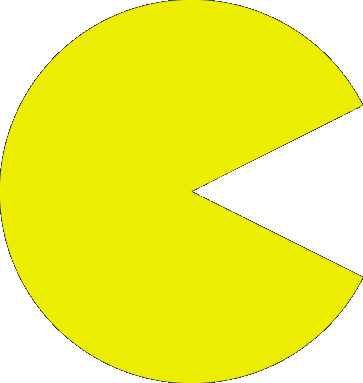
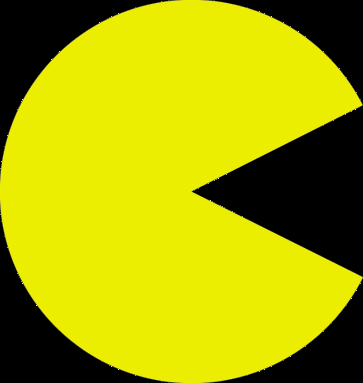
Give Pacman black background

Changed region(s): [[0.5152, 0.0, 1.0, 1.0], [0.0, 0.5744, 0.4545, 1.0], [0.0, 0.0, 0.4545, 0.4308]]

diff --git a/Pacman.c b/Pacman.c
@@ -8,40 +8,38 @@
  * 
  * Quote/Fortune of the Day!
  * -------------------------
- * After all, what is your host's purpose in having a party?
- * Surely not for you to enjoy yourself.
- * If that were their sole purpose,
- *  they'd have simply sent champagne and women over to your place by taxi.  ~P.J. O'Rourke
+ * A scout troop consists of twelve little kids dressed like schmucks
+ *  following a big schmuck dressed like a kid.  ~Jack Benny
  * 
  * All bug reports / feature requests are to be sent to Brandon (brandon.whitehead@gatech.edu)
  */
 
 const unsigned short Pacman[256] =
 {
-	0x7fff,0x7fff,0x7fff,0x7fff,0x6bde,0x37bd,0x13bc,0x07bc,0x03bd,0x07bc,
-	0x17bc,0x3fbd,0x73de,0x7fff,0x7fff,0x7fff,0x7fff,0x7fff,0x7fff,0x43bd,
-	0x07bc,0x03bc,0x03bd,0x03bd,0x03bd,0x03bd,0x03bd,0x03bc,0x0bbc,0x4bbd,
-	0x7fff,0x7fff,0x7fff,0x7fff,0x2bbc,0x03bc,0x03bd,0x03bd,0x03bd,0x03bd,
-	0x03bd,0x03bd,0x03bd,0x03bd,0x03bd,0x03bc,0x37bd,0x7fff,0x7fff,0x3bbd,
-	0x03bc,0x07bd,0x03bd,0x03bd,0x03bd,0x03bd,0x03bd,0x03bd,0x03bd,0x03bd,
-	0x03bd,0x07bd,0x03bc,0x3bbd,0x63de,0x07bc,0x03bd,0x03bd,0x03bd,0x03bd,
-	0x03bd,0x03bd,0x03bd,0x03bd,0x03bd,0x03bd,0x03bd,0x03bc,0x07bc,0x2fbc,
-	0x2fbd,0x03bd,0x03bd,0x03bd,0x03bd,0x03bd,0x03bd,0x03bd,0x03bd,0x03bd,
-	0x03bd,0x03bc,0x07bc,0x33bd,0x6bde,0x7fff,0x0f9c,0x03bd,0x03bd,0x03bd,
-	0x03bd,0x03bd,0x03bd,0x03bd,0x03bd,0x03bc,0x0bbc,0x3bbd,0x6fde,0x7fff,
-	0x7fff,0x7fff,0x03bc,0x03bd,0x03bd,0x03bd,0x03bd,0x03bd,0x03bd,0x03bd,
-	0x0bbc,0x47bd,0x77ff,0x7fff,0x7fff,0x7fff,0x7fff,0x7fff,0x03bc,0x03bd,
-	0x03bd,0x03bd,0x03bd,0x03bd,0x03bd,0x03bd,0x0bbc,0x47bd,0x77de,0x7fff,
-	0x7fff,0x7fff,0x7fff,0x7fff,0x0f9c,0x03bd,0x03bd,0x03bd,0x03bd,0x03bd,
-	0x03bd,0x03bd,0x03bd,0x03bc,0x0b9c,0x37bd,0x6fde,0x7fff,0x7fff,0x7fff,
-	0x2fbd,0x03bd,0x03bd,0x03bd,0x03bd,0x03bd,0x03bd,0x03bd,0x03bd,0x03bd,
-	0x03bd,0x03bc,0x07bc,0x2fbd,0x6bde,0x7fff,0x63de,0x07bc,0x03bd,0x03bd,
-	0x03bd,0x03bd,0x03bd,0x03bd,0x03bd,0x03bd,0x03bd,0x03bd,0x03bd,0x03bc,
-	0x03bc,0x2bbc,0x7fff,0x3bbd,0x03bc,0x07bd,0x03bd,0x03bd,0x03bd,0x03bd,
-	0x03bd,0x03bd,0x03bd,0x03bd,0x03bd,0x07bd,0x03bc,0x3bbd,0x7fff,0x7fff,
-	0x2bbc,0x03bc,0x03bd,0x03bd,0x03bd,0x03bd,0x03bd,0x03bd,0x03bd,0x03bd,
-	0x03bd,0x03bc,0x37bd,0x7fff,0x7fff,0x7fff,0x7fff,0x43bd,0x07bc,0x03bc,
-	0x03bd,0x03bd,0x03bd,0x03bd,0x03bd,0x03bc,0x0bbc,0x4bbd,0x7fff,0x7fff,
-	0x7fff,0x7fff,0x7fff,0x7fff,0x6bde,0x37bd,0x13bc,0x07bc,0x03bd,0x079c,
-	0x17bc,0x3fbd,0x73de,0x7fff,0x7fff,0x7fff
+	0x0000,0x0000,0x0000,0x0000,0x0084,0x0210,0x0318,0x039c,0x03bd,0x039c,
+	0x0317,0x01ef,0x0063,0x0000,0x0000,0x0000,0x0000,0x0000,0x0000,0x01ce,
+	0x039c,0x03fe,0x03dd,0x03bd,0x03bd,0x03bd,0x03dd,0x03fe,0x037b,0x018c,
+	0x0000,0x0000,0x0000,0x0000,0x0273,0x03ff,0x03bd,0x03bc,0x03bc,0x03bd,
+	0x03bd,0x03bd,0x03bc,0x039c,0x03bd,0x03ff,0x0210,0x0000,0x0000,0x01ef,
+	0x03ff,0x039c,0x03bc,0x03bd,0x03bd,0x03bd,0x03bd,0x03bd,0x03bd,0x03bd,
+	0x03bc,0x039c,0x03ff,0x01ef,0x00c6,0x03bd,0x03bd,0x03bc,0x03bd,0x03bd,
+	0x03bd,0x03bd,0x03bd,0x03bd,0x03bc,0x039c,0x03bd,0x03ff,0x03bc,0x0252,
+	0x0272,0x03de,0x03bc,0x03bd,0x03bd,0x03bd,0x03bd,0x03bd,0x03bc,0x039c,
+	0x03bd,0x03ff,0x039c,0x0231,0x0084,0x0000,0x035a,0x03bd,0x03bc,0x03bd,
+	0x03bd,0x03bd,0x03bd,0x03bc,0x03bd,0x03ff,0x037b,0x020f,0x0063,0x0000,
+	0x0000,0x0000,0x03bc,0x03bd,0x03bd,0x03bd,0x03bd,0x03bd,0x03bc,0x03bd,
+	0x037a,0x018c,0x0042,0x0000,0x0000,0x0000,0x0000,0x0000,0x03bc,0x03bd,
+	0x03bd,0x03bd,0x03bd,0x03bd,0x03bc,0x03bd,0x037a,0x01ac,0x0042,0x0000,
+	0x0000,0x0000,0x0000,0x0000,0x035a,0x03bd,0x03bc,0x03bd,0x03bd,0x03bd,
+	0x03bd,0x03bc,0x03bd,0x03ff,0x039b,0x0210,0x0063,0x0000,0x0000,0x0000,
+	0x0272,0x03de,0x03bc,0x03bd,0x03bd,0x03bd,0x03bd,0x03bd,0x03bc,0x039c,
+	0x03bd,0x03ff,0x039c,0x0251,0x0084,0x0000,0x00c6,0x03bd,0x03bd,0x03bc,
+	0x03bd,0x03bd,0x03bd,0x03bd,0x03bd,0x03bd,0x03bc,0x039c,0x03bd,0x03ff,
+	0x03bd,0x0273,0x0000,0x020f,0x03ff,0x039c,0x03bc,0x03bd,0x03bd,0x03bd,
+	0x03bd,0x03bd,0x03bd,0x03bd,0x03bc,0x039c,0x03ff,0x01ef,0x0000,0x0000,
+	0x0273,0x03ff,0x03bd,0x03bc,0x03bc,0x03bd,0x03bd,0x03bd,0x03bc,0x039c,
+	0x03bd,0x03ff,0x0210,0x0000,0x0000,0x0000,0x0000,0x01ce,0x039c,0x03fe,
+	0x03dd,0x03bd,0x03bd,0x03bd,0x03dd,0x03fe,0x037b,0x018c,0x0000,0x0000,
+	0x0000,0x0000,0x0000,0x0000,0x0084,0x0210,0x0318,0x039c,0x03bd,0x039c,
+	0x0317,0x01ee,0x0063,0x0000,0x0000,0x0000
 };

diff --git a/Pacman.h b/Pacman.h
@@ -8,10 +8,8 @@
  * 
  * Quote/Fortune of the Day!
  * -------------------------
- * After all, what is your host's purpose in having a party?
- * Surely not for you to enjoy yourself.
- * If that were their sole purpose,
- *  they'd have simply sent champagne and women over to your place by taxi.  ~P.J. O'Rourke
+ * A scout troop consists of twelve little kids dressed like schmucks
+ *  following a big schmuck dressed like a kid.  ~Jack Benny
  * 
  * All bug reports / feature requests are to be sent to Brandon (brandon.whitehead@gatech.edu)
  */
